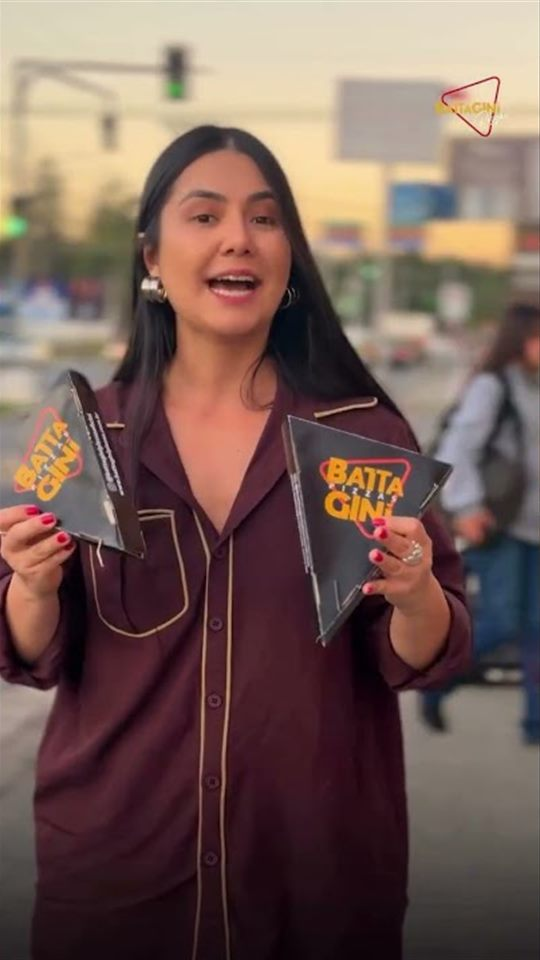
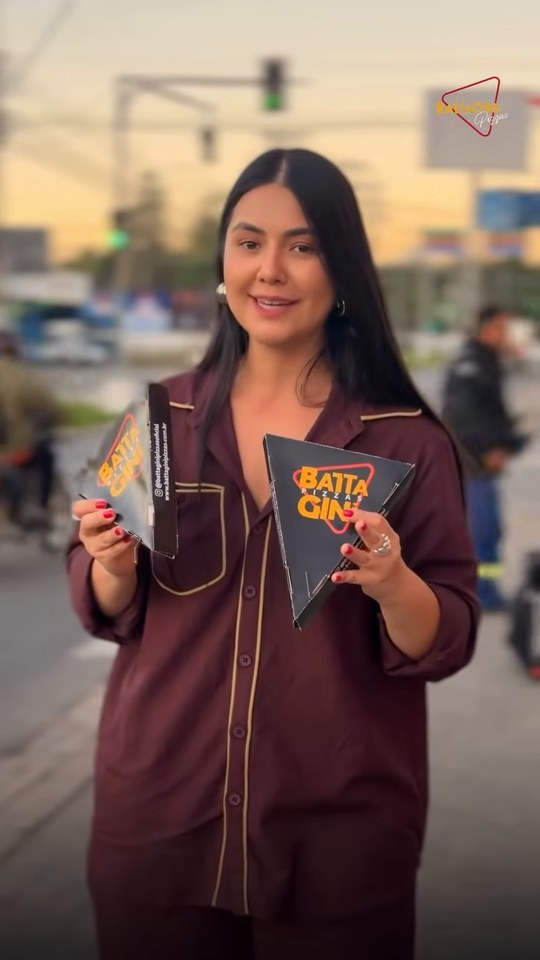
Capas novas da Voy e da Battagini

diff --git a/index.html b/index.html
@@ -2761,7 +2761,7 @@
     const $ = (seletor) => document.querySelector(seletor);
     // Muda a cada atualização das logos, para o navegador não mostrar versões antigas guardadas.
     const VERSAO_LOGOS = "20261028-2";
-    const VERSAO_CAPAS = "20261029-2";
+    const VERSAO_CAPAS = "20261029-3";
     const versao = (src) => (src ? `${src}?v=${VERSAO_LOGOS}` : src);
     const reduzirMovimento = window.matchMedia("(prefers-reduced-motion: reduce)").matches;
 
